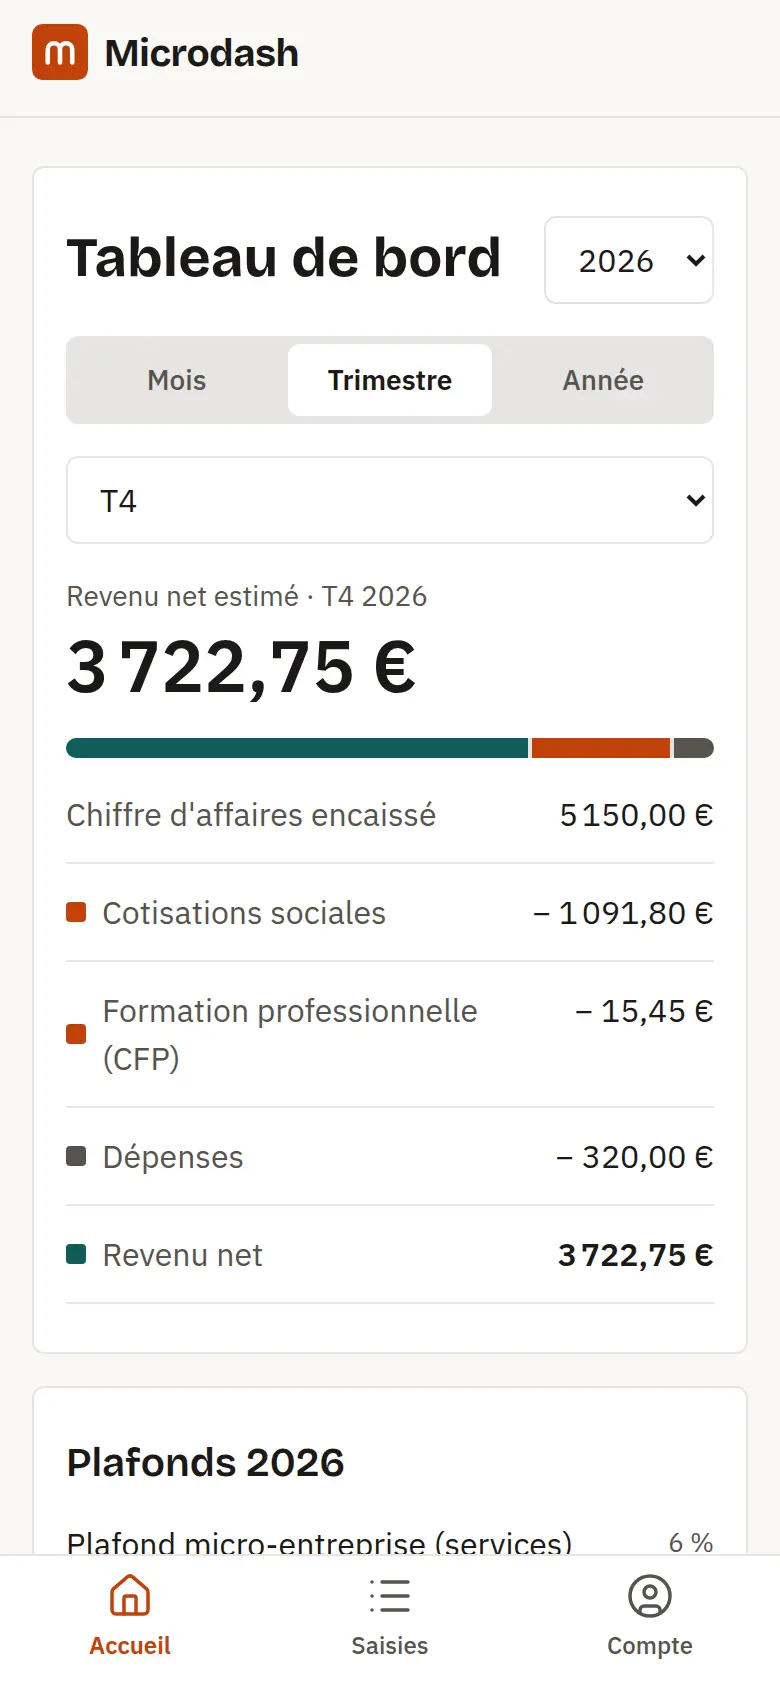
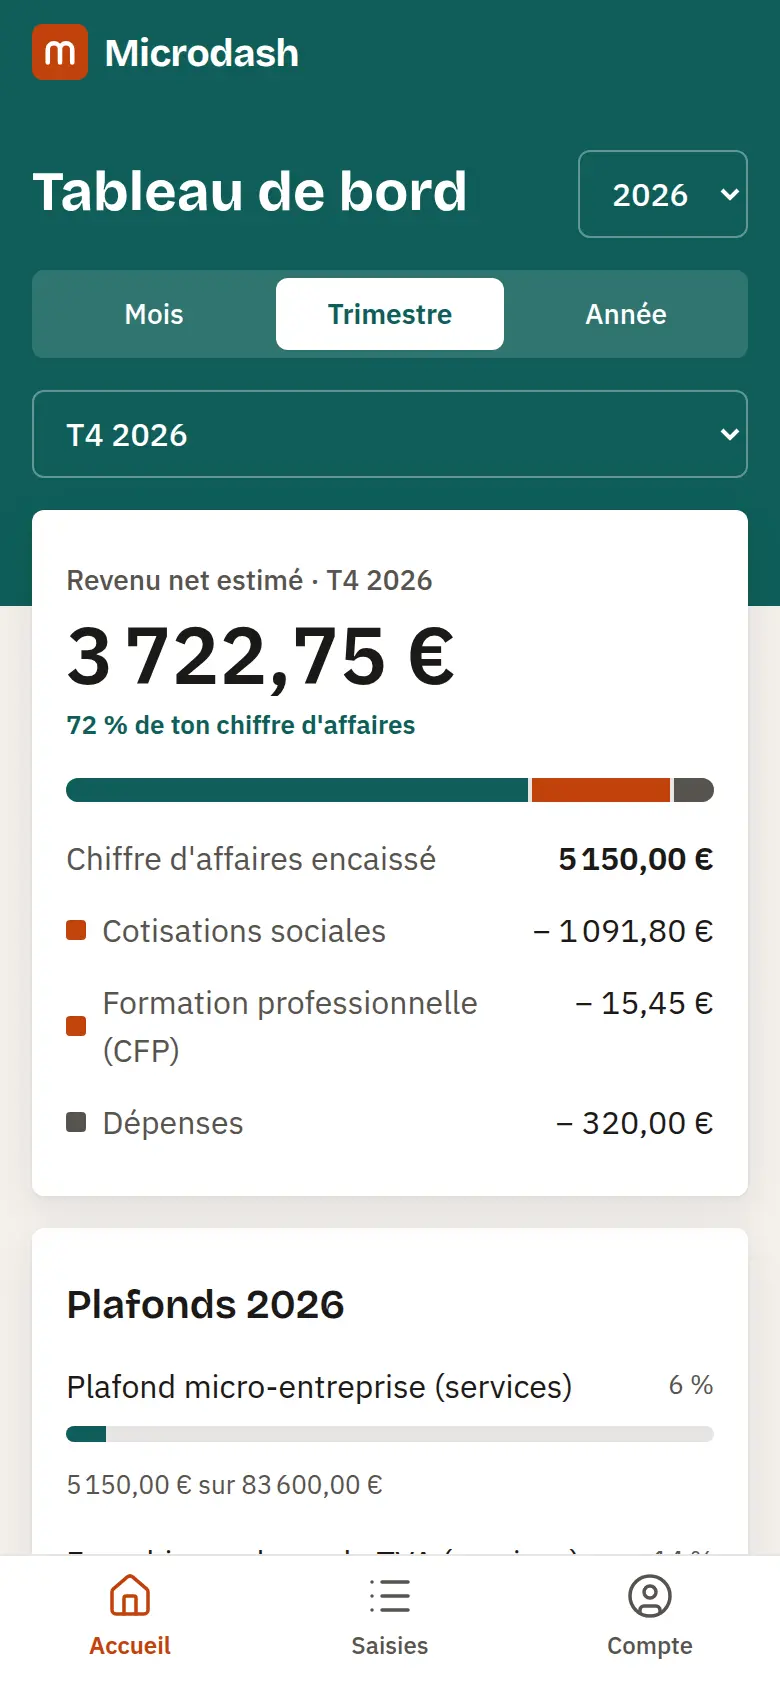
Relief sur les écrans principaux : bandeau sarcelle et cartes ombrées
- Tableau de bord et saisies : bandeau sarcelle avec titre et filtres, cartes ombrées qui le chevauchent
- Revenu net plus visible (40 px, part du chiffre d'affaires) et carte « Dernières saisies »
- DESIGN.md : règle du relief, fond --fond-relief, ombre --ombre-carte
- Capture de la vitrine refaite, défilement sans animation si « réduire les animations »

Claude-Session: https://claude.ai/code/session_014r6FvHEDWwjg31b6FVZNzu

diff --git a/web/src/views/TableauDeBordView.vue b/web/src/views/TableauDeBordView.vue
@@ -10,11 +10,18 @@ const index = ref(0)
 const donnees = ref(null)
 const profil = ref(null)
 const erreur = ref('')
+const dernieres = ref([])
 
 async function charger() {
   erreur.value = ''
   try {
-    donnees.value = await api.get(`/tableau-de-bord?annee=${annee.value}`)
+    const [d, t] = await Promise.all([
+      api.get(`/tableau-de-bord?annee=${annee.value}`),
+      api.get(`/transactions?du=${annee.value}-01-01&au=${annee.value}-12-31`),
+    ])
+    donnees.value = d
+    // L'API renvoie les saisies de la plus récente à la plus ancienne.
+    dernieres.value = (t || []).slice(0, 3)
   } catch (e) {
     erreur.value = e.message
   }
@@ -48,6 +55,8 @@ const libellePeriode = computed(() => {
   const p = periodes.value[index.value]
   return p ? `${p.libelle} ${annee.value}` : ''
 })
+// Part du chiffre d'affaires qui reste après cotisations et dépenses, en pourcentage entier.
+const partNet = computed(() => (totaux.value?.ca > 0 ? Math.round((totaux.value.net / totaux.value.ca) * 100) : null))
 const impotLibelle = computed(() => (profil.value?.versement_liberatoire ? 'Impôt (versement libératoire)' : null))
 
 function changerVue(v) {
@@ -57,7 +66,7 @@ function changerVue(v) {
 </script>
 
 <template>
-  <section class="carte pile">
+  <div class="bandeau">
     <div class="titre-ligne">
       <h1>Tableau de bord</h1>
       <select v-model="annee" aria-label="Année">
@@ -70,9 +79,11 @@ function changerVue(v) {
       <button :class="{ actif: vue === 'annee' }" @click="changerVue('annee')">Année</button>
     </div>
     <select v-if="vue !== 'annee'" v-model="index" aria-label="Période">
-      <option v-for="(p, i) in periodes" :key="p.debut" :value="i">{{ p.libelle }}</option>
+      <option v-for="(p, i) in periodes" :key="p.debut" :value="i">{{ p.libelle }} {{ annee }}</option>
     </select>
+  </div>
 
+  <section class="carte pile carte-net">
     <p v-if="erreur" class="erreur" role="alert">{{ erreur }}</p>
     <p v-if="donnees && !donnees.bareme_exact" class="encart">
       Pas encore de barème {{ annee }} : les calculs utilisent les taux {{ donnees.bareme_annee }}.
@@ -82,6 +93,7 @@ function changerVue(v) {
       <div class="net">
         <span>Revenu net estimé · {{ libellePeriode }}</span>
         <strong class="chiffres-tab">{{ formatEuros(totaux.net) }}</strong>
+        <small v-if="partNet !== null">{{ partNet }} % de ton chiffre d'affaires</small>
       </div>
       <div v-if="totaux.ca > 0" class="repartition" role="img" :aria-label="`Sur ${formatEuros(totaux.ca)} encaissés, il te reste ${formatEuros(totaux.net)}`">
         <div :style="{ flex: Math.max(totaux.net, 0), background: 'var(--sarcelle)' }"></div>
@@ -89,12 +101,11 @@ function changerVue(v) {
         <div :style="{ flex: totaux.depenses, background: 'var(--pierre)' }"></div>
       </div>
       <dl class="chiffres">
-        <div><dt>Chiffre d'affaires encaissé</dt><dd>{{ formatEuros(totaux.ca) }}</dd></div>
+        <div><dt>Chiffre d'affaires encaissé</dt><dd><strong>{{ formatEuros(totaux.ca) }}</strong></dd></div>
         <div><dt><span class="pastille" style="background: var(--safran)"></span>Cotisations sociales</dt><dd>− {{ formatEuros(totaux.cotisations) }}</dd></div>
         <div><dt><span class="pastille" style="background: var(--safran)"></span>Formation professionnelle (CFP)</dt><dd>− {{ formatEuros(totaux.cfp) }}</dd></div>
         <div v-if="impotLibelle"><dt><span class="pastille" style="background: var(--safran)"></span>{{ impotLibelle }}</dt><dd>− {{ formatEuros(totaux.impot_vl) }}</dd></div>
         <div><dt><span class="pastille" style="background: var(--pierre)"></span>Dépenses</dt><dd>− {{ formatEuros(totaux.depenses) }}</dd></div>
-        <div><dt><span class="pastille" style="background: var(--sarcelle)"></span>Revenu net</dt><dd><strong>{{ formatEuros(totaux.net) }}</strong></dd></div>
       </dl>
       <p v-if="vue === 'annee' && !profil?.versement_liberatoire" class="aide">
         Revenu imposable de l'activité en {{ annee }} : <strong>{{ formatEuros(donnees.revenu_imposable) }}</strong>.
@@ -120,10 +131,31 @@ function changerVue(v) {
     </div>
     <p class="aide">Estimations faites à partir de tes saisies et du barème de l'année. Seule ta déclaration URSSAF fait foi.</p>
   </section>
+
+  <section v-if="dernieres.length" class="carte">
+    <div class="titre-ligne">
+      <h2>Dernières saisies</h2>
+      <RouterLink class="tout-voir" to="/saisies">Tout voir</RouterLink>
+    </div>
+    <ul class="liste">
+      <li v-for="t in dernieres" :key="t.id">
+        <div>
+          <strong>{{ t.libelle || (t.type === 'recette' ? 'Recette' : t.poste) }}</strong>
+          <small>{{ formatDate(t.date) }}<template v-if="t.type === 'depense' && t.libelle"> · {{ t.poste }}</template></small>
+        </div>
+        <span :class="['montant', t.type]">{{ t.type === 'depense' ? '−' : '+' }} {{ formatEuros(t.centimes) }}</span>
+      </li>
+    </ul>
+  </section>
 </template>
 
 <style scoped>
 .net { display: grid; gap: var(--e1); }
-.net span { color: var(--pierre); font-size: 14px; }
-.net strong { font-size: 36px; line-height: 1.1; font-weight: 600; }
+.net span { color: var(--pierre); font-size: 14px; font-weight: 500; }
+.net strong { font-size: 40px; line-height: 1.1; font-weight: 700; letter-spacing: -0.01em; }
+.net small { color: var(--sarcelle); font-size: 13px; font-weight: 600; }
+.carte-net .repartition { height: 12px; }
+/* Dans la carte du revenu net, les lignes respirent sans séparateur, comme sur la maquette. */
+.carte-net .chiffres div { border-bottom: 0; padding-bottom: 0; }
+.tout-voir { font-weight: 600; text-decoration: none; min-height: 44px; display: inline-flex; align-items: center; }
 </style>

diff --git a/web/src/App.vue b/web/src/App.vue
@@ -8,13 +8,15 @@ import FenetreConfirmation from './components/FenetreConfirmation.vue'
 
 const route = useRoute()
 const miseEnPageApp = computed(() => route.meta.acces === 'membre')
+// Les écrans principaux (meta.relief) ont un bandeau sarcelle et des cartes ombrées.
+const relief = computed(() => Boolean(route.meta.relief))
 const annee = new Date().getFullYear()
 const icone = { size: 24, 'stroke-width': 1.75, 'aria-hidden': 'true' }
 </script>
 
 <template>
-  <template v-if="miseEnPageApp">
-    <header class="entete-app">
+  <div v-if="miseEnPageApp" :class="{ 'ecran-relief': relief }">
+    <header :class="['entete-app', { relief }]">
       <RouterLink to="/tableau-de-bord" aria-label="Microdash, tableau de bord"><LogoMicrodash /></RouterLink>
     </header>
     <main class="contenu-app">
@@ -25,7 +27,7 @@ const icone = { size: 24, 'stroke-width': 1.75, 'aria-hidden': 'true' }
       <RouterLink to="/saisies"><List v-bind="icone" />Saisies</RouterLink>
       <RouterLink to="/compte"><CircleUser v-bind="icone" />Compte</RouterLink>
     </nav>
-  </template>
+  </div>
 
   <template v-else>
     <header class="entete-public">
@@ -65,7 +67,10 @@ const icone = { size: 24, 'stroke-width': 1.75, 'aria-hidden': 'true' }
   padding: calc(env(safe-area-inset-top) + var(--e3)) var(--e4) var(--e3);
   background: var(--papier); border-bottom: 1px solid var(--lin);
 }
-.entete-app a { text-decoration: none; display: inline-flex; }
+.entete-app a { text-decoration: none; display: inline-flex; color: var(--encre); }
+.entete-app.relief { background: var(--sarcelle); border-bottom-color: var(--sarcelle); }
+.entete-app.relief a { color: var(--blanc); }
+.entete-app.relief :focus-visible { outline-color: var(--blanc); }
 .contenu-app { max-width: 640px; margin: 0 auto; padding: var(--e5) var(--e4) calc(96px + env(safe-area-inset-bottom)); }
 
 .onglets {
@@ -85,7 +90,7 @@ const icone = { size: 24, 'stroke-width': 1.75, 'aria-hidden': 'true' }
 .largeur { max-width: 1080px; margin: 0 auto; padding: 0 var(--e4); }
 .entete-public { border-bottom: 1px solid var(--lin); background: var(--papier); }
 .entete-public .largeur { display: flex; justify-content: space-between; align-items: center; gap: var(--e3); min-height: 64px; }
-.entete-public a:first-child { text-decoration: none; display: inline-flex; }
+.entete-public a:first-child { text-decoration: none; display: inline-flex; color: var(--encre); }
 .liens-entete { display: flex; align-items: center; gap: var(--e4); }
 .lien-entete { color: var(--encre); font-weight: 500; text-decoration: none; min-height: 44px; display: inline-flex; align-items: center; }
 .lien-entete:hover { color: var(--safran); }

diff --git a/web/src/style.css b/web/src/style.css
@@ -14,6 +14,12 @@
   /* Encre transparente, pour le voile et l'ombre de la fenêtre de confirmation. */
   --voile: rgba(28, 25, 23, 0.4);
   --ombre: 0 8px 32px rgba(28, 25, 23, 0.18);
+  /* Relief des écrans principaux (tableau de bord, saisies). */
+  --fond-relief: #f3f0eb;
+  --ombre-carte: 0 1px 2px rgba(28, 25, 23, 0.06), 0 6px 20px rgba(28, 25, 23, 0.08);
+  /* Blanc transparent, pour les contrôles posés sur le bandeau sarcelle. */
+  --sur-sarcelle: rgba(255, 255, 255, 0.14);
+  --bord-sur-sarcelle: rgba(255, 255, 255, 0.35);
 
   --police-titre: 'Bricolage Grotesque', Georgia, serif;
   --police-texte: 'IBM Plex Sans', 'Helvetica Neue', Arial, sans-serif;
@@ -155,6 +161,26 @@ dialog.confirmation::backdrop { background: var(--voile); }
   *, *::before, *::after { transition: none !important; animation: none !important; }
 }
 .carte + .carte { margin-top: var(--e4); }
+
+/* --- Écrans principaux en relief : bandeau sarcelle, cartes ombrées qui le chevauchent --- */
+.ecran-relief { background: var(--fond-relief); min-height: 100vh; }
+.ecran-relief .carte { border-color: transparent; box-shadow: var(--ombre-carte); }
+.bandeau {
+  /* Pleine largeur sans débordement : l'ombre et la découpe prolongent le fond sur les côtés. */
+  background: var(--sarcelle); color: var(--blanc);
+  box-shadow: 0 0 0 100vmax var(--sarcelle); clip-path: inset(0 -100vmax);
+  margin-top: calc(-1 * var(--e5)); padding: var(--e4) 0 var(--e8);
+  display: grid; gap: var(--e4);
+}
+.bandeau + * { margin-top: calc(-1 * var(--e7)); position: relative; }
+.bandeau h1 { color: var(--blanc); }
+.bandeau :focus-visible { outline-color: var(--blanc); }
+.bandeau select { background: transparent; color: var(--blanc); border-color: var(--bord-sur-sarcelle); font-weight: 500; }
+.bandeau select:hover { border-color: var(--blanc); }
+.bandeau select option { color: var(--encre); }
+.bandeau .bascule { background: var(--sur-sarcelle); }
+.bandeau .bascule button { color: var(--blanc); }
+.bandeau .bascule button.actif { background: var(--blanc); color: var(--sarcelle); }
 
 /* --- Pages publiques --- */
 .largeur-lecture { max-width: 720px; margin: 0 auto; padding: 0 var(--e4); }

diff --git a/web/src/router.js b/web/src/router.js
@@ -9,8 +9,8 @@ const routes = [
   { path: '/inscription', component: () => import('./views/ConnexionView.vue'), props: { mode: 'inscription' }, meta: { acces: 'invite', titre: 'Créer un compte', description: 'Crée ton compte Microdash gratuit avec une adresse e-mail.' } },
   { path: '/mentions-legales', component: () => import('./views/MentionsLegalesView.vue'), meta: { acces: 'public', titre: 'Mentions légales', description: "Éditeur et hébergeur du site Microdash." } },
   { path: '/confidentialite', component: () => import('./views/ConfidentialiteView.vue'), meta: { acces: 'public', titre: 'Confidentialité', description: 'Les données que Microdash garde, pourquoi, combien de temps, et comment les effacer.' } },
-  { path: '/tableau-de-bord', component: () => import('./views/TableauDeBordView.vue'), meta: { acces: 'membre', titre: 'Tableau de bord' } },
-  { path: '/saisies', component: () => import('./views/TransactionsView.vue'), meta: { acces: 'membre', titre: 'Saisies' } },
+  { path: '/tableau-de-bord', component: () => import('./views/TableauDeBordView.vue'), meta: { acces: 'membre', titre: 'Tableau de bord', relief: true } },
+  { path: '/saisies', component: () => import('./views/TransactionsView.vue'), meta: { acces: 'membre', titre: 'Saisies', relief: true } },
   { path: '/profil', component: () => import('./views/ProfilView.vue'), meta: { acces: 'membre', titre: 'Ton activité' } },
   { path: '/compte', component: () => import('./views/CompteView.vue'), meta: { acces: 'membre', titre: 'Compte' } },
   // Anciennes adresses du socle.

diff --git a/web/src/views/TransactionsView.vue b/web/src/views/TransactionsView.vue
@@ -57,7 +57,7 @@ function editer(t) {
     libelle: t.libelle,
     tiers: t.tiers,
   })
-  window.scrollTo({ top: 0, behavior: 'smooth' })
+  window.scrollTo({ top: 0, behavior: matchMedia('(prefers-reduced-motion: reduce)').matches ? 'auto' : 'smooth' })
 }
 
 async function enregistrer() {
@@ -103,8 +103,12 @@ async function supprimer(t) {
 </script>
 
 <template>
+  <div class="bandeau">
+    <h1>Saisies</h1>
+  </div>
+
   <section class="carte pile">
-    <h1>{{ enEdition ? 'Modifier la saisie' : 'Nouvelle saisie' }}</h1>
+    <h2>{{ enEdition ? 'Modifier la saisie' : 'Nouvelle saisie' }}</h2>
     <form @submit.prevent="enregistrer">
       <div class="bascule">
         <button type="button" :class="{ actif: saisie.type === 'recette' }" @click="saisie.type = 'recette'">Recette</button>

diff --git a/web/src/components/LogoMicrodash.vue b/web/src/components/LogoMicrodash.vue
@@ -15,5 +15,5 @@ defineProps({ avecNom: { type: Boolean, default: true } })
 
 <style scoped>
 .logo { display: inline-flex; align-items: center; gap: var(--e2); }
-.nom { font: 700 19px var(--police-titre); color: var(--encre); letter-spacing: -0.01em; }
+.nom { font: 700 19px var(--police-titre); color: inherit; letter-spacing: -0.01em; }
 </style>

diff --git a/DESIGN.md b/DESIGN.md
@@ -25,10 +25,11 @@ Toutes les couleurs sont des variables CSS définies dans `web/src/style.css` (`
 | Fond de page | Papier | `#FAF8F5` | `--papier` |
 | Surfaces (cartes, champs) | Blanc | `#FFFFFF` | `--blanc` |
 | Erreur et seuil dépassé, uniquement | Brique | `#B91C1C` | `--brique` |
+| Fond des écrans principaux | Lin chaud | `#F3F0EB` | `--fond-relief` |
 
 Pas de dégradé. Pas de mode sombre pour l'instant : une seule identité claire.
 
-Contrastes vérifiés (WCAG) : encre sur papier 16,5:1, pierre sur papier 7,2:1, blanc sur safran 5,2:1, sarcelle sur blanc 7,6:1, brique sur blanc 6,5:1.
+Contrastes vérifiés (WCAG) : encre sur papier 16,5:1, pierre sur papier 7,2:1, blanc sur safran 5,2:1, sarcelle sur blanc 7,6:1, blanc sur sarcelle 7,6:1, brique sur blanc 6,5:1.
 
 ## Typographie
 
@@ -42,7 +43,7 @@ Deux polices, auto-hébergées avec Fontsource (aucun appel à Google Fonts) :
 | Titre de la vitrine (h1) | 44 px (32 px sous 600 px de large) | 1,1 | Bricolage 700 |
 | Titre de page (h1 de l'app) | 28 px | 1,2 | Bricolage 700 |
 | Titre de section (h2) | 20 px | 1,3 | Bricolage 600 |
-| Chiffre principal | 36 px | 1,1 | Plex 600 |
+| Chiffre principal (revenu net) | 40 px | 1,1 | Plex 700 |
 | Texte courant | 16 px | 1,5 | Plex 400 |
 | Libellés, boutons | 15 px | 1,4 | Plex 500 ou 600 |
 | Légendes, aides | 13 px | 1,45 | Plex 400 |
@@ -51,7 +52,8 @@ Deux polices, auto-hébergées avec Fontsource (aucun appel à Google Fonts) :
 
 - **Un seul rayon d'arrondi : 6 px** (`--rayon`), pour les boutons, cartes, champs, badges, jauges et images. Pas de pilule.
 - Espacements sur une grille de 4 px : 4, 8, 12, 16, 24, 32, 48, 64 (`--e1` à `--e8`).
-- Bordures de 1 px en lin. Pas d'ombre portée, sauf la fenêtre de confirmation.
+- Bordures de 1 px en lin. Pas d'ombre portée, sauf la fenêtre de confirmation et les écrans principaux.
+- **Écrans principaux en relief** (tableau de bord, saisies) : un bandeau sarcelle en haut porte le titre et les filtres, en texte blanc. Les cartes blanches le chevauchent de 48 px, sans bordure, avec une ombre douce (`--ombre-carte`), sur le fond `--fond-relief`. Les autres écrans (compte, profil, connexion, vitrine, pages légales) restent à plat, avec bordure lin.
 - Boutons : **principal** (fond safran, texte blanc) et **secondaire** (fond blanc, bordure lin, texte encre). Les actions destructives prennent le style secondaire avec un texte brique. Hauteur minimale de 44 px.
 - Largeur de lecture maximale : 640 px dans l'app, 1080 px sur la vitrine.
 
